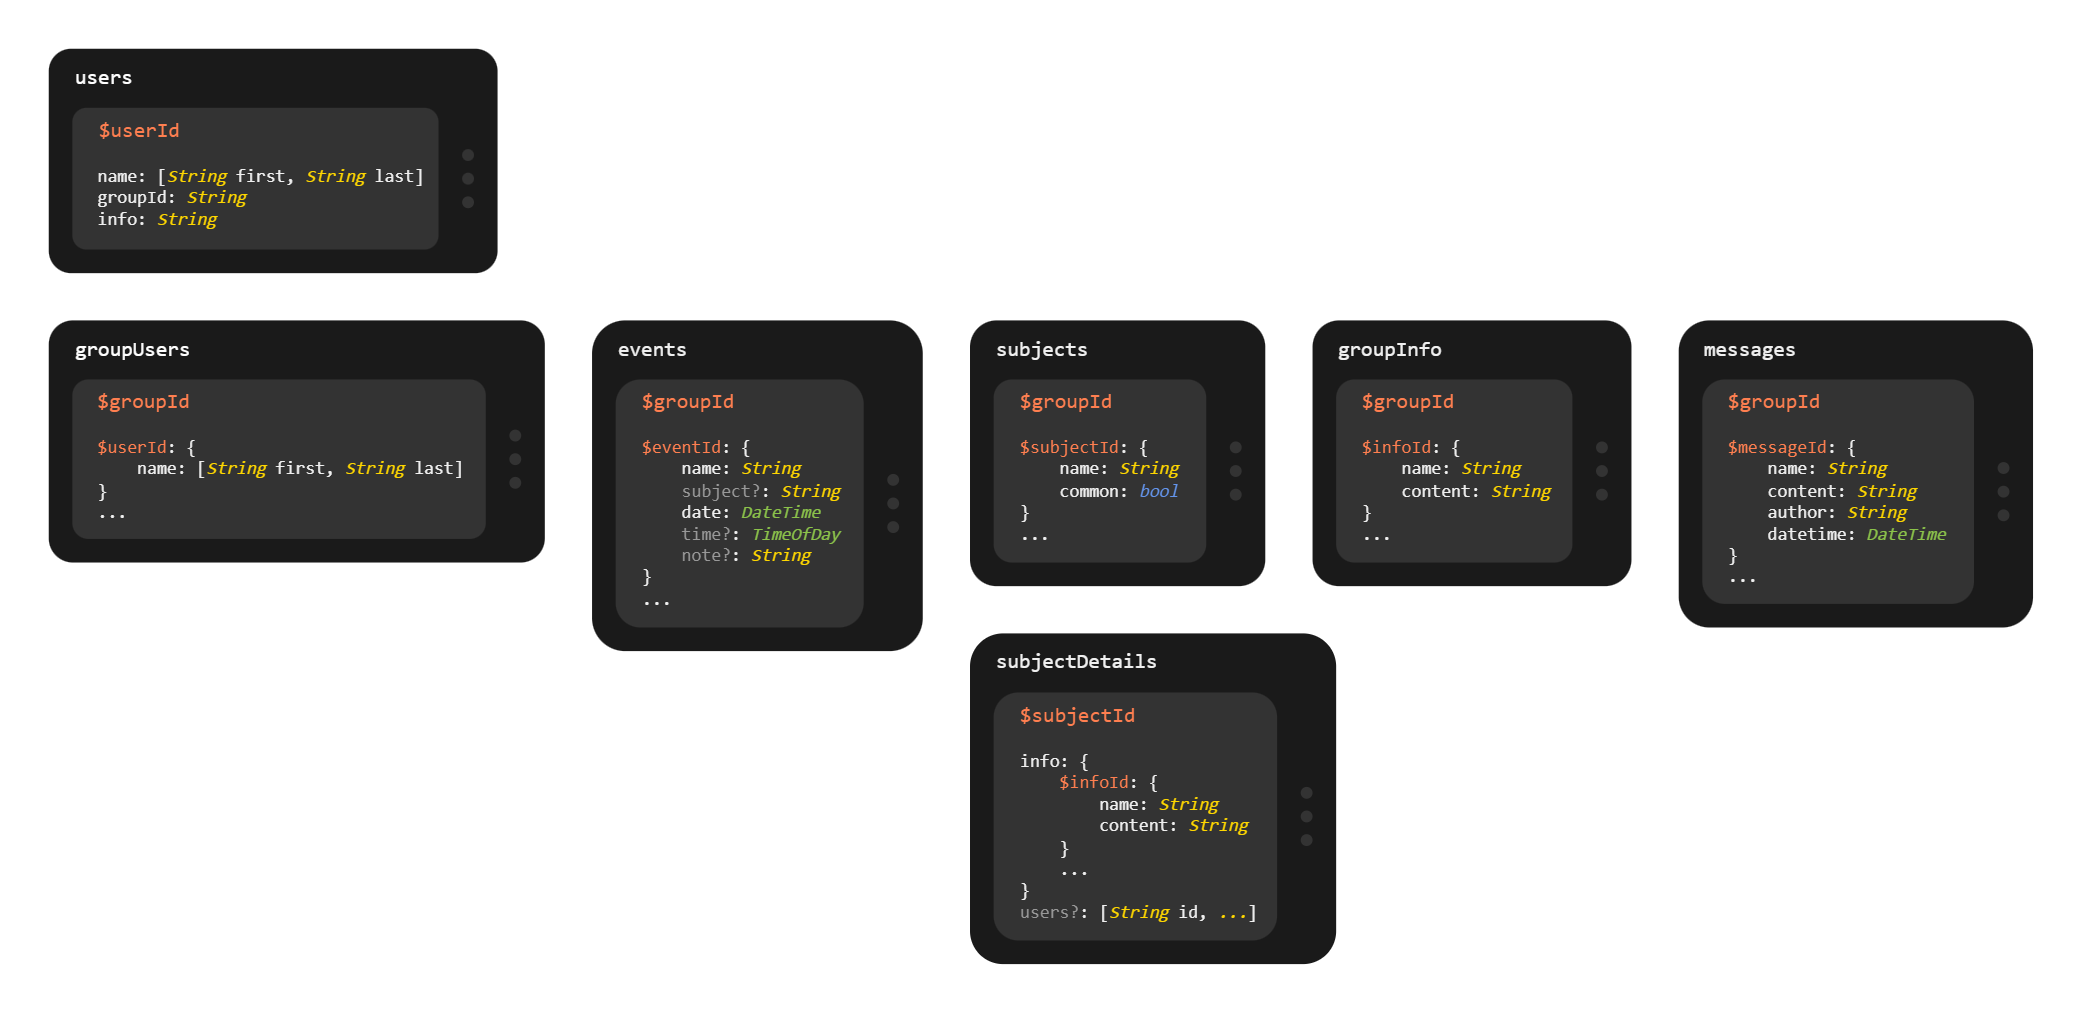
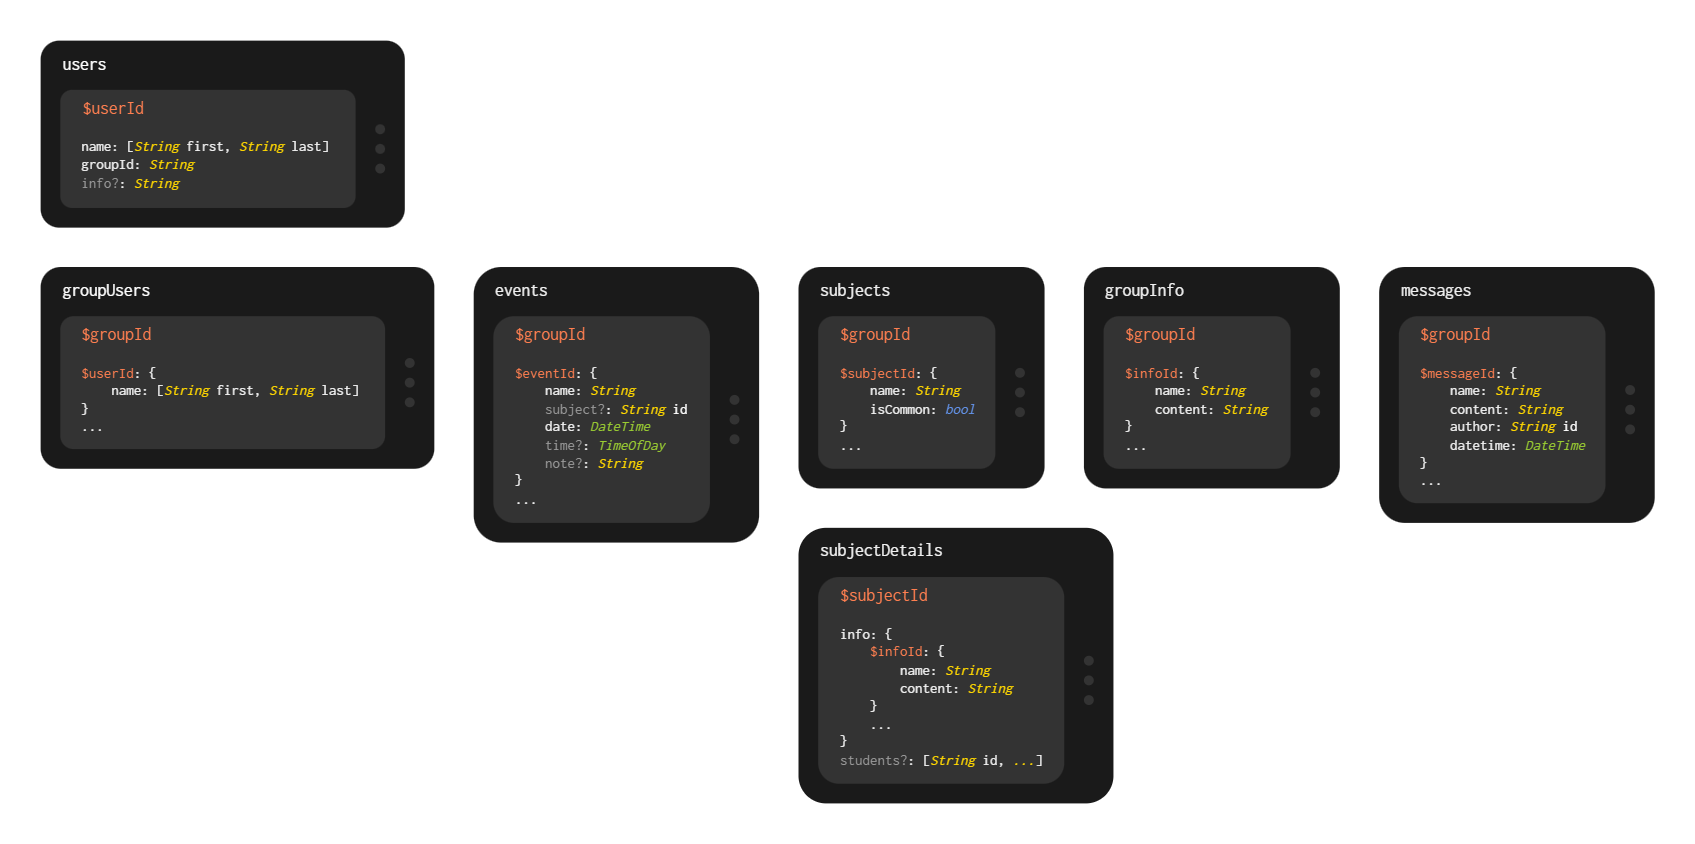
Define entities

diff --git a/app/lib/data/firebase_options.dart b/app/lib/data/firebase_options.dart
@@ -1,0 +1,70 @@
+// do: move and rewrite the file
+// File generated by FlutterFire CLI.
+// ignore_for_file: lines_longer_than_80_chars, avoid_classes_with_only_static_members
+import 'package:firebase_core/firebase_core.dart' show FirebaseOptions;
+import 'package:flutter/foundation.dart'
+		show defaultTargetPlatform, kIsWeb, TargetPlatform;
+
+/// Default [FirebaseOptions] for use with your Firebase apps.
+///
+/// Example:
+/// ```dart
+/// import 'firebase_options.dart';
+/// // ...
+/// await Firebase.initializeApp(
+///   options: DefaultFirebaseOptions.currentPlatform,
+/// );
+/// ```
+class DefaultFirebaseOptions {
+	static FirebaseOptions get currentPlatform {
+		if (kIsWeb) {
+			throw UnsupportedError(
+				'DefaultFirebaseOptions have not been configured for web - '
+				'you can reconfigure this by running the FlutterFire CLI again.',
+			);
+		}
+		switch (defaultTargetPlatform) {
+			case TargetPlatform.android:
+				return android;
+			case TargetPlatform.iOS:
+				return ios;
+			case TargetPlatform.macOS:
+				throw UnsupportedError(
+					'DefaultFirebaseOptions have not been configured for macos - '
+					'you can reconfigure this by running the FlutterFire CLI again.',
+				);
+			case TargetPlatform.windows:
+				throw UnsupportedError(
+					'DefaultFirebaseOptions have not been configured for windows - '
+					'you can reconfigure this by running the FlutterFire CLI again.',
+				);
+			case TargetPlatform.linux:
+				throw UnsupportedError(
+					'DefaultFirebaseOptions have not been configured for linux - '
+					'you can reconfigure this by running the FlutterFire CLI again.',
+				);
+			default:
+				throw UnsupportedError(
+					'DefaultFirebaseOptions are not supported for this platform.',
+				);
+		}
+	}
+
+	static const FirebaseOptions android = FirebaseOptions(
+		apiKey: 'AIzaSyCYU4XKNnm2U4r3qrL6Cjjk3HDBjQkiU9A',
+		appId: '1:764008713279:android:0c4ae02a26d6245e26fc8a',
+		messagingSenderId: '764008713279',
+		projectId: 'podiinyk',
+		storageBucket: 'podiinyk.appspot.com',
+	);
+
+	static const FirebaseOptions ios = FirebaseOptions(
+		apiKey: 'AIzaSyBBgfal0_VyL1exqbvSnQpdSqlCpk2Nvqw',
+		appId: '1:764008713279:ios:5920ea2baf7e6a9226fc8a',
+		messagingSenderId: '764008713279',
+		projectId: 'podiinyk',
+		storageBucket: 'podiinyk.appspot.com',
+		iosClientId: '764008713279-r6i3uhjp36gopeq2jlrglivq7a2jabfd.apps.googleusercontent.com',
+		iosBundleId: 'kraianyn.podiinyk',
+	);
+}

diff --git a/app/lib/domain/entities/event.dart b/app/lib/domain/entities/event.dart
@@ -1,0 +1,43 @@
+import 'package:flutter/material.dart';
+
+import 'package:podiinyk/data/types.dart';
+
+import 'subject.dart';
+
+
+class Event {
+	const Event({
+		required this.id,
+		required this.name,		
+		this.subject,
+		required this.date,
+		this.time,
+		this.note
+	});
+
+	Event.fromCloud({
+		required this.id,
+		required ObjectMap object,
+		required Map<String, Subject> subjects
+	}) :
+		name = object[Field.name.name],
+		subject = object.containsKey(Field.subject.name) ? subjects[object[Field.subject.name]] : null,
+		date = object[Field.date.name],
+		time = object[Field.time.name],
+		note = object[Field.note.name];
+
+	final String id;
+	final String name;
+	final Subject? subject;
+	final DateTime date;
+	final TimeOfDay? time;
+	final String? note;
+
+	ObjectMap get cloudObject => {
+		Field.name.name: name,
+		if (subject != null) Field.subject.name: subject,
+		Field.date.name: date,
+		if (time != null) Field.time.name: time,
+		if (note != null) Field.note.name: note
+	};
+}

diff --git a/app/lib/domain/entities/message.dart b/app/lib/domain/entities/message.dart
@@ -1,0 +1,37 @@
+import 'package:podiinyk/data/types.dart';
+
+import 'student.dart';
+
+
+class Message {
+	const Message({
+		required this.id,
+		required this.name,
+		required this.content,
+		required this.author,
+		required this.datetime
+	});
+
+	Message.fromCloud({
+		required this.id,
+		required ObjectMap object,
+		required Map<String, Student> students
+	}) :
+		name = object[Field.name.name],
+		content = object[Field.content.name],
+		author = students[object[Field.author.name]]!,
+		datetime = object[Field.datetime.name];
+
+	final String id;
+	final String name;
+	final String content;
+	final Student author;
+	final DateTime datetime;
+
+	ObjectMap get cloudObject => {
+		Field.name.name: name,
+		Field.content.name: content,
+		Field.author.name: author,
+		Field.datetime.name: datetime
+	};
+}

diff --git a/app/lib/domain/entities/student.dart b/app/lib/domain/entities/student.dart
@@ -1,0 +1,32 @@
+import 'package:podiinyk/data/types.dart';
+
+
+class Student {
+	const Student({
+		required this.id,
+		required this.name,
+		required this.surname,
+		this.info
+	});
+
+	Student.fromCloud({
+		required this.id,
+		required ObjectMap object
+	}) :
+		name = object[Field.name.name],
+		surname = object[Field.surname.name],
+		info = null;
+
+	final String id;
+	final String name;
+	final String surname;
+	final StudentDetails? info;
+}
+
+class StudentDetails {
+	const StudentDetails({
+		this.info
+	});
+
+	final String? info;
+}

diff --git a/app/lib/main.dart b/app/lib/main.dart
@@ -1,5 +1,7 @@
 import 'package:flutter/material.dart';
 
+import 'package:hooks_riverpod/hooks_riverpod.dart';
+
 
 void main() async {
 	runApp(const MyApp());
@@ -12,12 +14,9 @@ class MyApp extends StatelessWidget {
 	Widget build(BuildContext context) {
 		return MaterialApp(
 			title: 'Подійник',
-		themeMode: ThemeMode.dark,
+			themeMode: ThemeMode.dark,
 			darkTheme: ThemeData(
 				colorScheme: const ColorScheme.dark()
-			),
-			home: const Scaffold(
-				body: Center(child: Text("podiinyk"))
 			),
 		);
 	}

diff --git a/app/lib/domain/entities/subject.dart b/app/lib/domain/entities/subject.dart
@@ -1,0 +1,26 @@
+import 'package:podiinyk/data/types.dart';
+
+
+class Subject {
+	const Subject({
+		required this.id,
+		required this.name,
+		required this.isCommon
+	});
+
+	Subject.fromCloud({
+		required this.id,
+		required ObjectMap object
+	}) :
+		isCommon = object[Field.isCommon.name],
+		name = object[Field.name.name];
+
+	final String id;
+	final String name;
+	final bool isCommon;
+
+	ObjectMap get cloudObject => {
+		Field.name.name: name,
+		Field.isCommon.name: isCommon
+	};
+}

diff --git a/app/lib/domain/entities/info.dart b/app/lib/domain/entities/info.dart
@@ -1,0 +1,26 @@
+import 'package:podiinyk/data/types.dart';
+
+
+class Info {
+	const Info({
+		required this.id,
+		required this.name,
+		required this.content
+	});
+
+	Info.fromCloud({
+		required this.id,
+		required ObjectMap object
+	}) :
+		name = object[Field.name.name],
+		content = object[Field.content.name];
+
+	final String id;
+	final String name;
+	final String content;
+
+	ObjectMap get cloudObject => {
+		Field.name.name: name,
+		Field.content.name: content
+	};
+}

diff --git a/app/lib/data/types.dart b/app/lib/data/types.dart
@@ -1,0 +1,16 @@
+typedef ObjectMap = Map<String, dynamic>;
+
+enum Field {
+	author,
+	content,
+	date,
+	datetime,
+	id,
+	info,
+	isCommon,
+	name,
+	note,
+	subject,
+	surname,
+	time
+}
